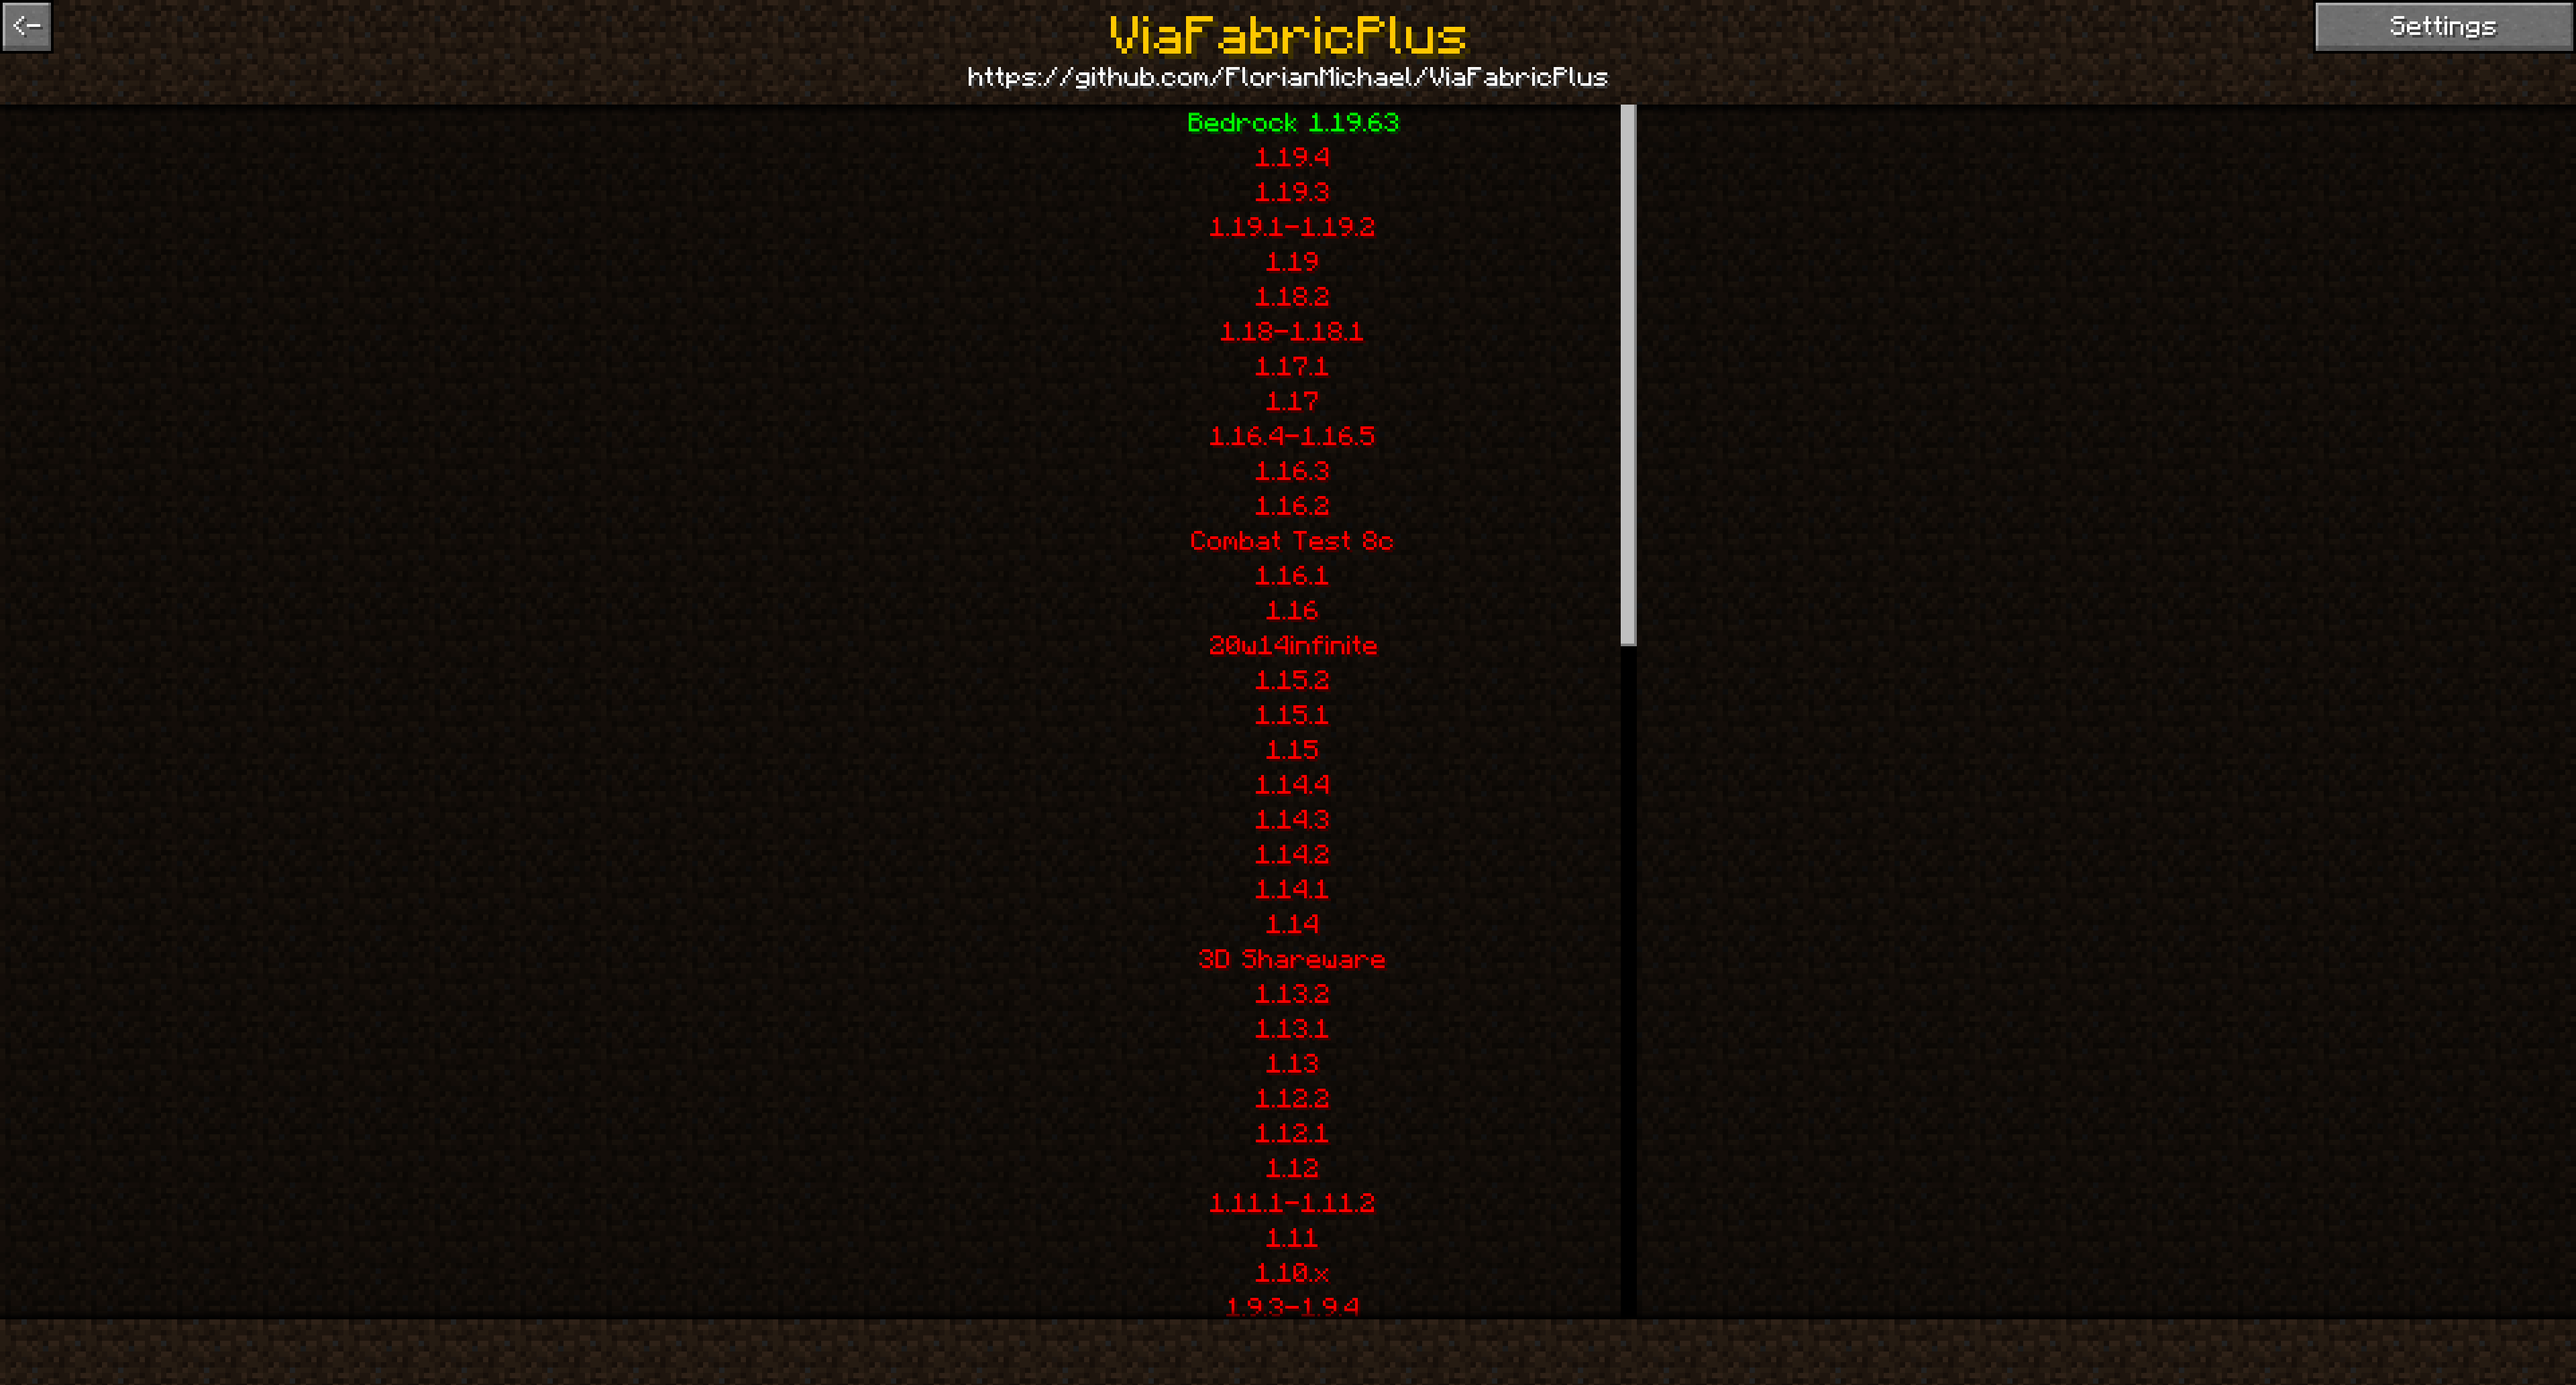
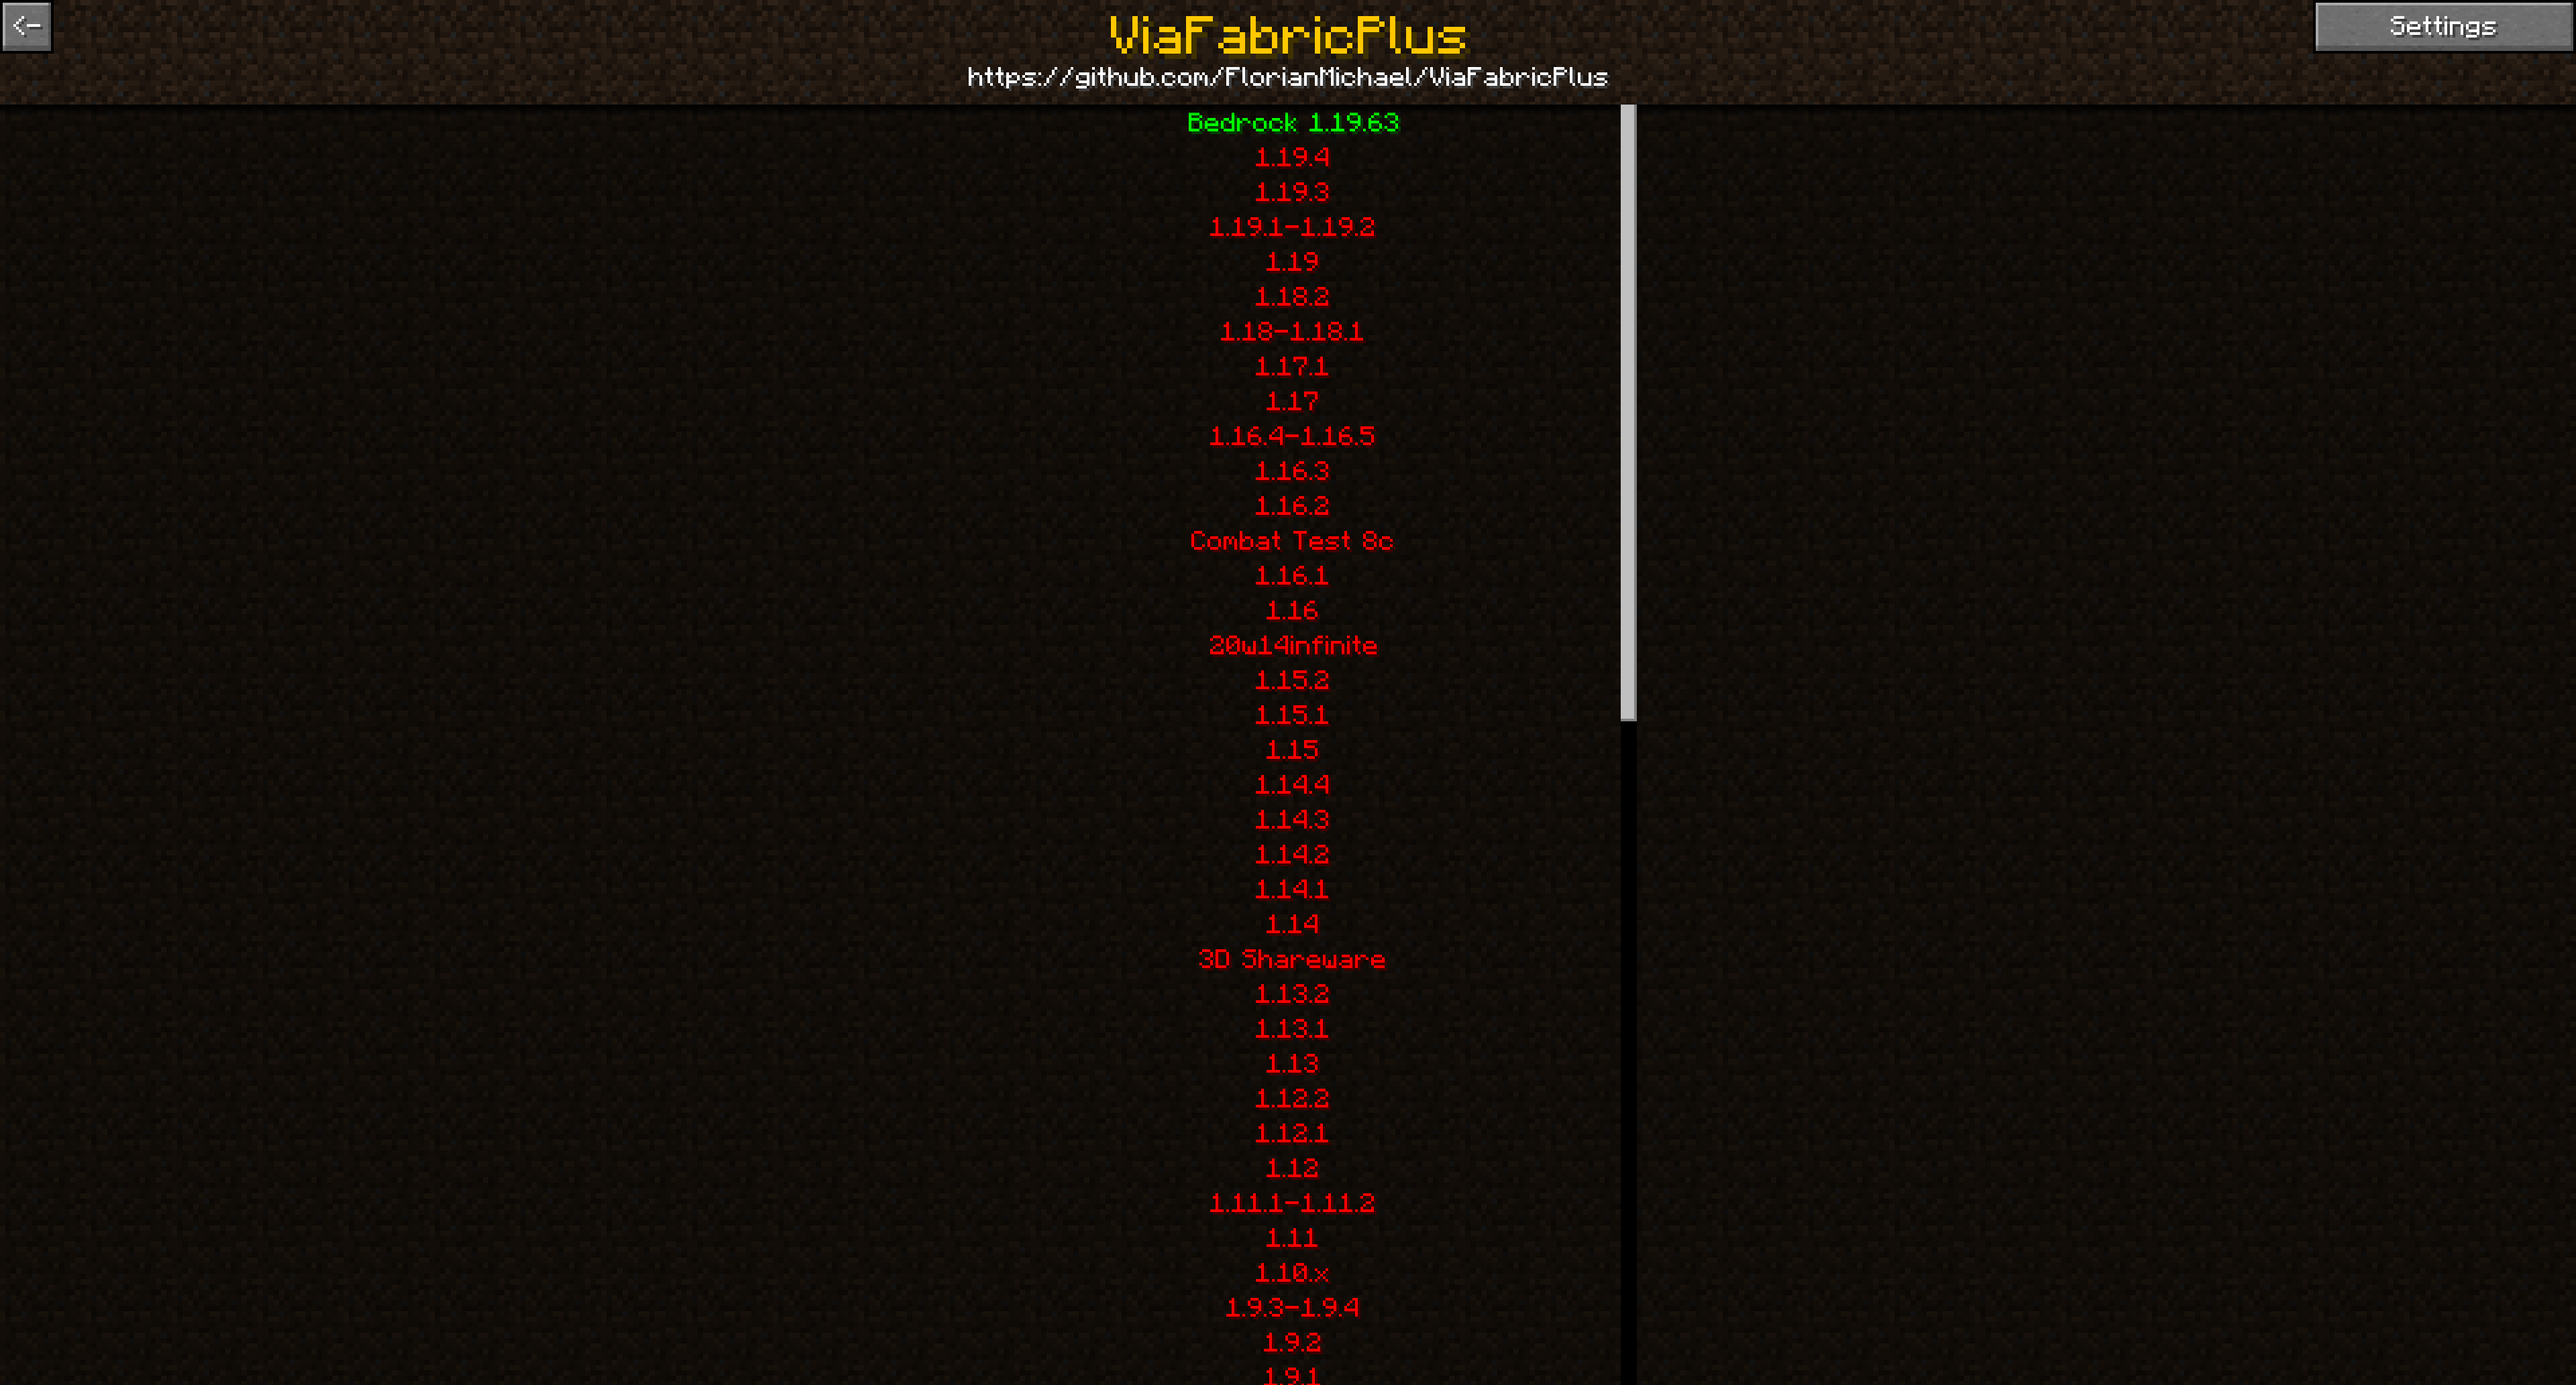
changed Protocol selection footer

Changed region(s): [[0.0, 0.9293, 1.0, 1.0], [0.625, 0.4647, 0.6562, 0.5266]]

diff --git a/src/main/java/de/florianmichael/viafabricplus/screen/ProtocolSelectionScreen.java b/src/main/java/de/florianmichael/viafabricplus/screen/ProtocolSelectionScreen.java
@@ -64,7 +64,7 @@ public class ProtocolSelectionScreen extends Screen {
     protected void init() {
         super.init();
 
-        this.addDrawableChild(new SlotList(this.client, width, height, 3 + 3 /* start offset */ + (textRenderer.fontHeight + 2) * 3 /* title is 2 */, height - 25, textRenderer.fontHeight + 4));
+        this.addDrawableChild(new SlotList(this.client, width, height, 3 + 3 /* start offset */ + (textRenderer.fontHeight + 2) * 3 /* title is 2 */, height + 5, textRenderer.fontHeight + 4));
         this.addDrawableChild(ButtonWidget.builder(Text.literal("<-"), button -> this.close()).position(0, 0).size(20, 20).build());
 
         this.addDrawableChild(ButtonWidget.builder(Text.literal("Settings"), button -> client.setScreen(SettingsScreen.get(this))).position(width - 98, 0).size(98, 20).build());
